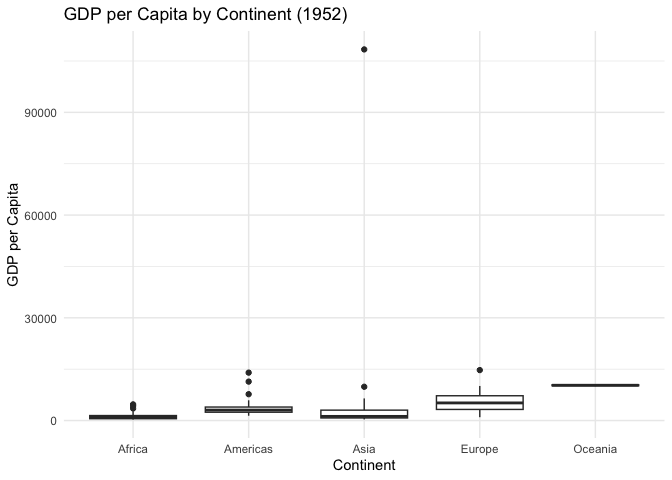
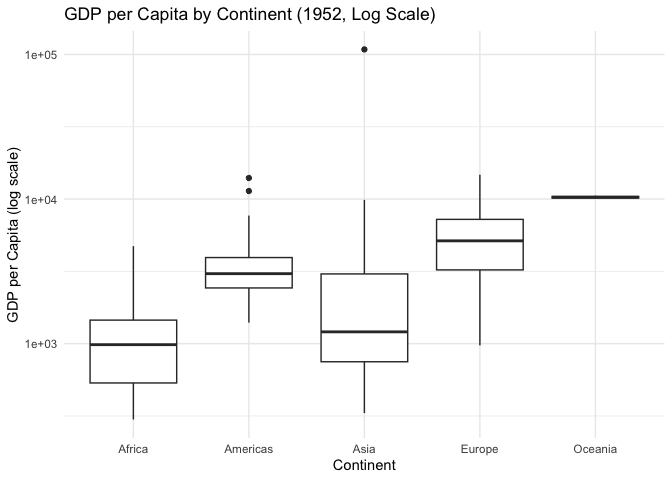
[20250430] Submission 2 for c04.

diff --git a/challenges/c04-gapminder-assignment.md b/challenges/c04-gapminder-assignment.md
@@ -193,36 +193,14 @@ gapminder_1952 <- gapminder %>% filter(year == year_min)
 
 ggplot(gapminder_1952, aes(x = continent, y = gdpPercap)) +
   geom_boxplot() +
-  labs(title = "GDP per Capita by Continent (1952)",
+  scale_y_log10() +  # <--- NEW
+  labs(title = "GDP per Capita by Continent (1952, Log Scale)",
        x = "Continent",
-       y = "GDP per Capita") +
+       y = "GDP per Capita (log scale)") +
   theme_minimal()
 ```
 
 ![](c04-gapminder-assignment_files/figure-gfm/q2-task-1.png)<!-- -->
-
-``` r
-outlier <- gapminder %>% filter(year == year_min) %>% filter(gdpPercap >= 30000)
-print(outlier)
-```
-
-    ## # A tibble: 1 × 6
-    ##   country continent  year lifeExp    pop gdpPercap
-    ##   <fct>   <fct>     <int>   <dbl>  <int>     <dbl>
-    ## 1 Kuwait  Asia       1952    55.6 160000   108382.
-
-``` r
-gapminder_1952 <- gapminder %>% filter(year == year_min) %>% filter(gdpPercap <= 30000)
-
-ggplot(gapminder_1952, aes(x = continent, y = gdpPercap)) +
-  geom_boxplot() +
-  labs(title = "GDP per Capita by Continent (1952)",
-       x = "Continent",
-       y = "GDP per Capita") +
-  theme_minimal()
-```
-
-![](c04-gapminder-assignment_files/figure-gfm/q2-task-2.png)<!-- -->
 
 ``` r
 library(maps)
@@ -258,7 +236,12 @@ map_data <- world_map %>%
 
 ggplot(map_data, aes(x = long, y = lat, group = group, fill = gdpPercap)) +
   geom_polygon(color = "white", size = 0.1) +
-  scale_fill_gradient(low = "lightblue", high = "darkblue", na.value = "gray", name = "GDP per Capita") +
+  scale_fill_gradient(
+    low = "lightblue", 
+    high = "darkblue", 
+    na.value = "gray", 
+    name = "GDP per Capita"
+    ) +
   labs(title = "GDP per Capita by Country (1952)",
        subtitle = "Data from Gapminder",
        caption = "Gray areas indicate missing data") +
@@ -275,7 +258,7 @@ ggplot(map_data, aes(x = long, y = lat, group = group, fill = gdpPercap)) +
     ## Call `lifecycle::last_lifecycle_warnings()` to see where this warning was
     ## generated.
 
-![](c04-gapminder-assignment_files/figure-gfm/q2-task-3.png)<!-- -->
+![](c04-gapminder-assignment_files/figure-gfm/q2-task-2.png)<!-- -->
 
 **Observations**:
 
@@ -287,16 +270,12 @@ ggplot(map_data, aes(x = long, y = lat, group = group, fill = gdpPercap)) +
 
 **Difficulties & Approaches**:
 
-- Unedited graph of data was very hard to read because of one specific
-  outlier from Asia. -\> I removed the outlier from the visualization. I
-  also printed the outlier to inspect which country it is from. The
-  country is Kuwait. According to Wikipedia, “By 1952, the country
-  became the largest oil exporter in the Persian Gulf. This massive
-  growth attracted many foreign workers, especially from Palestine,
-  Egypt, Iran, and India.” However, Kuwait was still a British
-  protectorate at that time. The country was not independent until 1961.
-  So, the data is not very reliable. I removed the outlier from the
-  visualization.
+- Originally, the plot was difficult to read due to a wide range in GDP
+  values. Rather than remove Kuwait (a legitimate data point with high
+  GDP), I used a logarithmic y-axis to better visualize variation across
+  countries. This reveals that GDP per capita was skewed toward lower
+  values in 1952, but outliers like Kuwait, the US, and Switzerland
+  stood out significantly.
 
 ### **q3** You should have found *at least* three outliers in q2 (but possibly many more!). Identify those outliers (figure out which countries they are).
 
@@ -369,11 +348,43 @@ variables; think about using different aesthetics or facets.
 
 ``` r
 ## TASK: Create a visual of gdpPercap vs continent
+outlier_countries <- outliers_1952$country
+
+gapminder_years <- gapminder %>%
+  filter(year %in% c(year_min, year_max))
+
+ggplot(gapminder_years, aes(x = continent, y = gdpPercap)) +
+  geom_boxplot() +
+  geom_point(
+    data = gapminder_years %>% filter(country %in% outlier_countries),
+    aes(color = country),
+    size = 2
+  ) +
+  scale_y_log10() +
+  facet_wrap(~ year) +
+  labs(title = "GDP per Capita by Continent: 1952 vs 2007 (Log Scale)",
+       x = "Continent", y = "GDP per Capita (log scale)",
+       color = "Outlier Country") +
+  theme_minimal()
 ```
+
+![](c04-gapminder-assignment_files/figure-gfm/q4-task-1.png)<!-- -->
 
 **Observations**:
 
-- Write your observations here
+- The log scale makes it easier to see patterns across continents
+  without the visual distortion caused by extreme outliers.
+- In 1952, the data shows huge disparities—countries like Kuwait,
+  Switzerland, and the US were already far ahead of the rest. Most other
+  countries had GDP per capita values tightly clustered at the lower
+  end.
+- By 2007, the every country shifted upward. Asia sees a big rise,
+  Europe, Americas, and Oceania saw a general rise. There are still no
+  outliers for Oceania.
+- Even though outliers still exist, the overall range difference is
+  smaller compared to before.
+- This view suggests global economic growth, but also shows that some
+  countries remain significantly ahead of others.
 
 # Your Own EDA
 
@@ -486,7 +497,10 @@ combined_data_normalized <- combined_data %>%
 # Calculate average normalized GDP per capita for top 5 and bottom 5
 average_data <- combined_data_normalized %>%
   group_by(group, year) %>%
-  summarize(avg_gdpPercap_normalized = mean(gdpPercap_normalized, na.rm = TRUE), .groups = "drop")
+  summarize(
+    avg_gdpPercap_normalized = mean(gdpPercap_normalized, na.rm = TRUE),
+    .groups = "drop"
+    )
 
 # Plot the averages on the same graph
 ggplot(average_data, aes(x = year, y = avg_gdpPercap_normalized, color = group)) +
